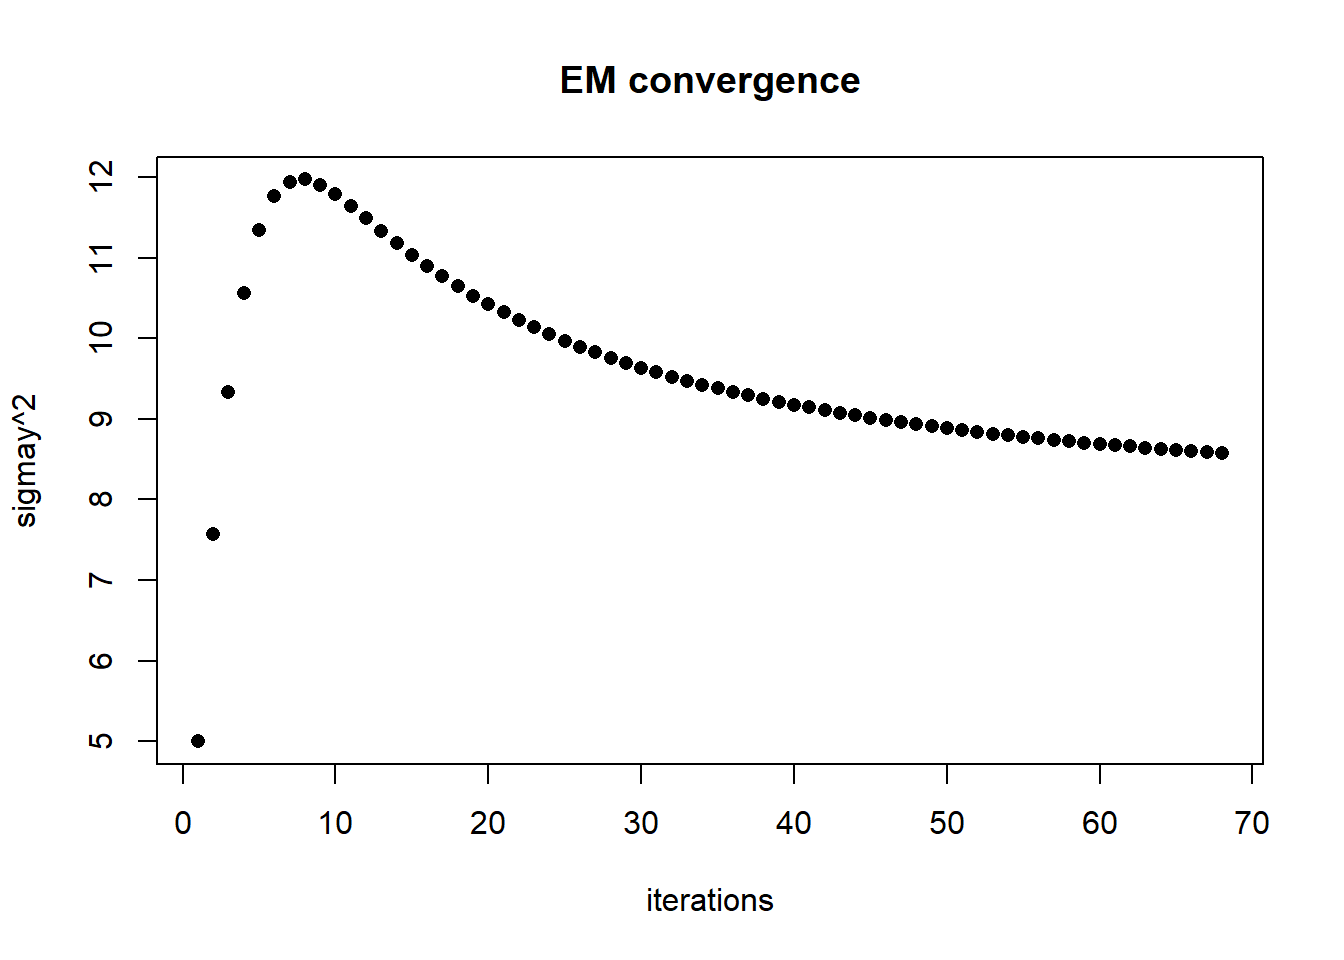
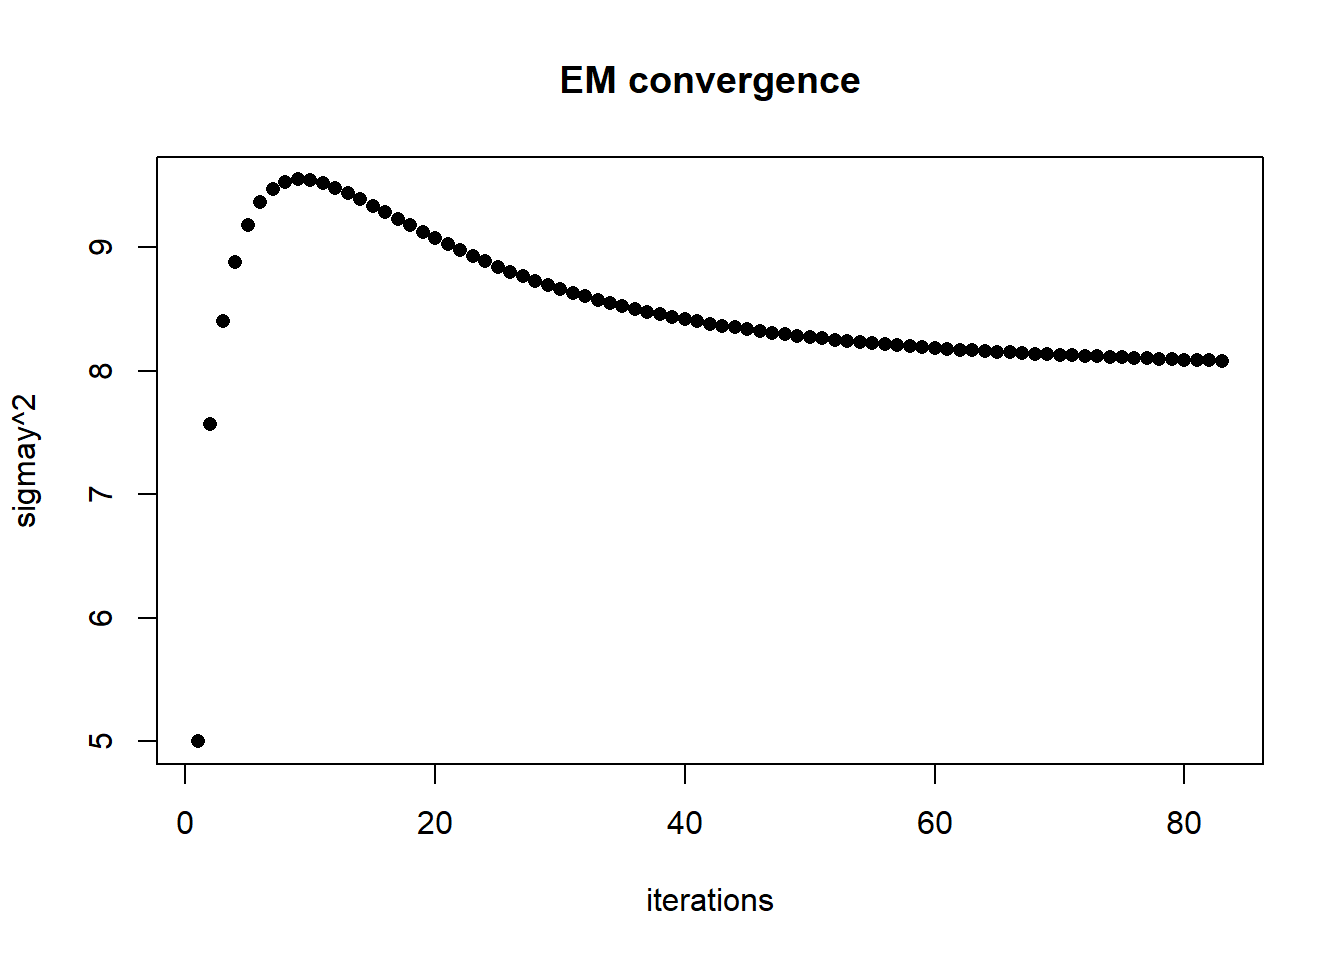
updated doc html

diff --git a/doc/gaussian_linear_state_space.html b/doc/gaussian_linear_state_space.html
@@ -408,36 +408,36 @@ Q_{ij} = \exp (-|| s(y_{t,i}) - s(y_{t,j}) ||_2 / \theta)
 <span id="cb2-14"><a href="#cb2-14" aria-hidden="true" tabindex="-1"></a>struct_ef</span></code><button title="Copy to Clipboard" class="code-copy-button"><i class="bi"></i></button></pre></div>
 <div class="cell-output cell-output-stdout">
 <pre><code>           est   std
-alpha    7.284 0.007
-phi      0.741 0.001
-theta    1.000 0.003
-sigmay^2 8.576 0.018</code></pre>
+alpha    7.007 0.039
+phi      0.741 0.003
+theta    0.847 0.012
+sigmay^2 8.083 0.109</code></pre>
 </div>
 <div class="sourceCode cell-code" id="cb4"><pre class="sourceCode r code-with-copy"><code class="sourceCode r"><span id="cb4-1"><a href="#cb4-1" aria-hidden="true" tabindex="-1"></a>beta_eff</span></code><button title="Copy to Clipboard" class="code-copy-button"><i class="bi"></i></button></pre></div>
 <div class="cell-output cell-output-stdout">
 <pre><code>                            est   std
-(Intercept)              36.306 0.197
-Monthfebbraio            -7.566 0.190
-Monthmarzo              -15.940 0.208
-Monthaprile             -22.248 0.218
-Monthmaggio             -28.244 0.223
-Monthgiugno             -28.212 0.233
-Monthluglio             -27.957 0.237
-Monthagosto             -29.479 0.236
-Monthsettembre          -27.630 0.227
-Monthottobre            -20.569 0.217
-Monthnovembre           -16.497 0.210
-Monthdicembre            -8.331 0.193
+(Intercept)              35.667 1.201
+Monthfebbraio            -7.607 1.112
+Monthmarzo              -15.963 1.218
+Monthaprile             -22.208 1.278
+Monthmaggio             -28.268 1.317
+Monthgiugno             -28.323 1.385
+Monthluglio             -28.130 1.410
+Monthagosto             -29.543 1.401
+Monthsettembre          -27.699 1.344
+Monthottobre            -20.767 1.276
+Monthnovembre           -16.509 1.230
+Monthdicembre            -8.347 1.129
 Altitude                 -0.006 0.000
-WE_temp_2m                0.488 0.005
-WE_tot_precipitation    -82.992 1.164
-WE_rh_mean                0.185 0.001
-WE_wind_speed_100m_mean  -1.263 0.008
+WE_temp_2m                0.505 0.032
+WE_tot_precipitation    -83.685 7.429
+WE_rh_mean                0.192 0.007
+WE_wind_speed_100m_mean  -1.258 0.049
 WE_blh_layer_max         -0.002 0.000
-LI_pigs_v2                0.005 0.000
-LI_bovine_v2              0.002 0.000
-LA_hvi                   -0.422 0.018
-LA_lvi                   -4.082 0.028</code></pre>
+LI_pigs_v2                0.005 0.001
+LI_bovine_v2              0.003 0.002
+LA_hvi                   -0.419 0.119
+LA_lvi                   -4.155 0.189</code></pre>
 </div>
 </div>
 <p>Loso residuals: RMSE for each station</p>
